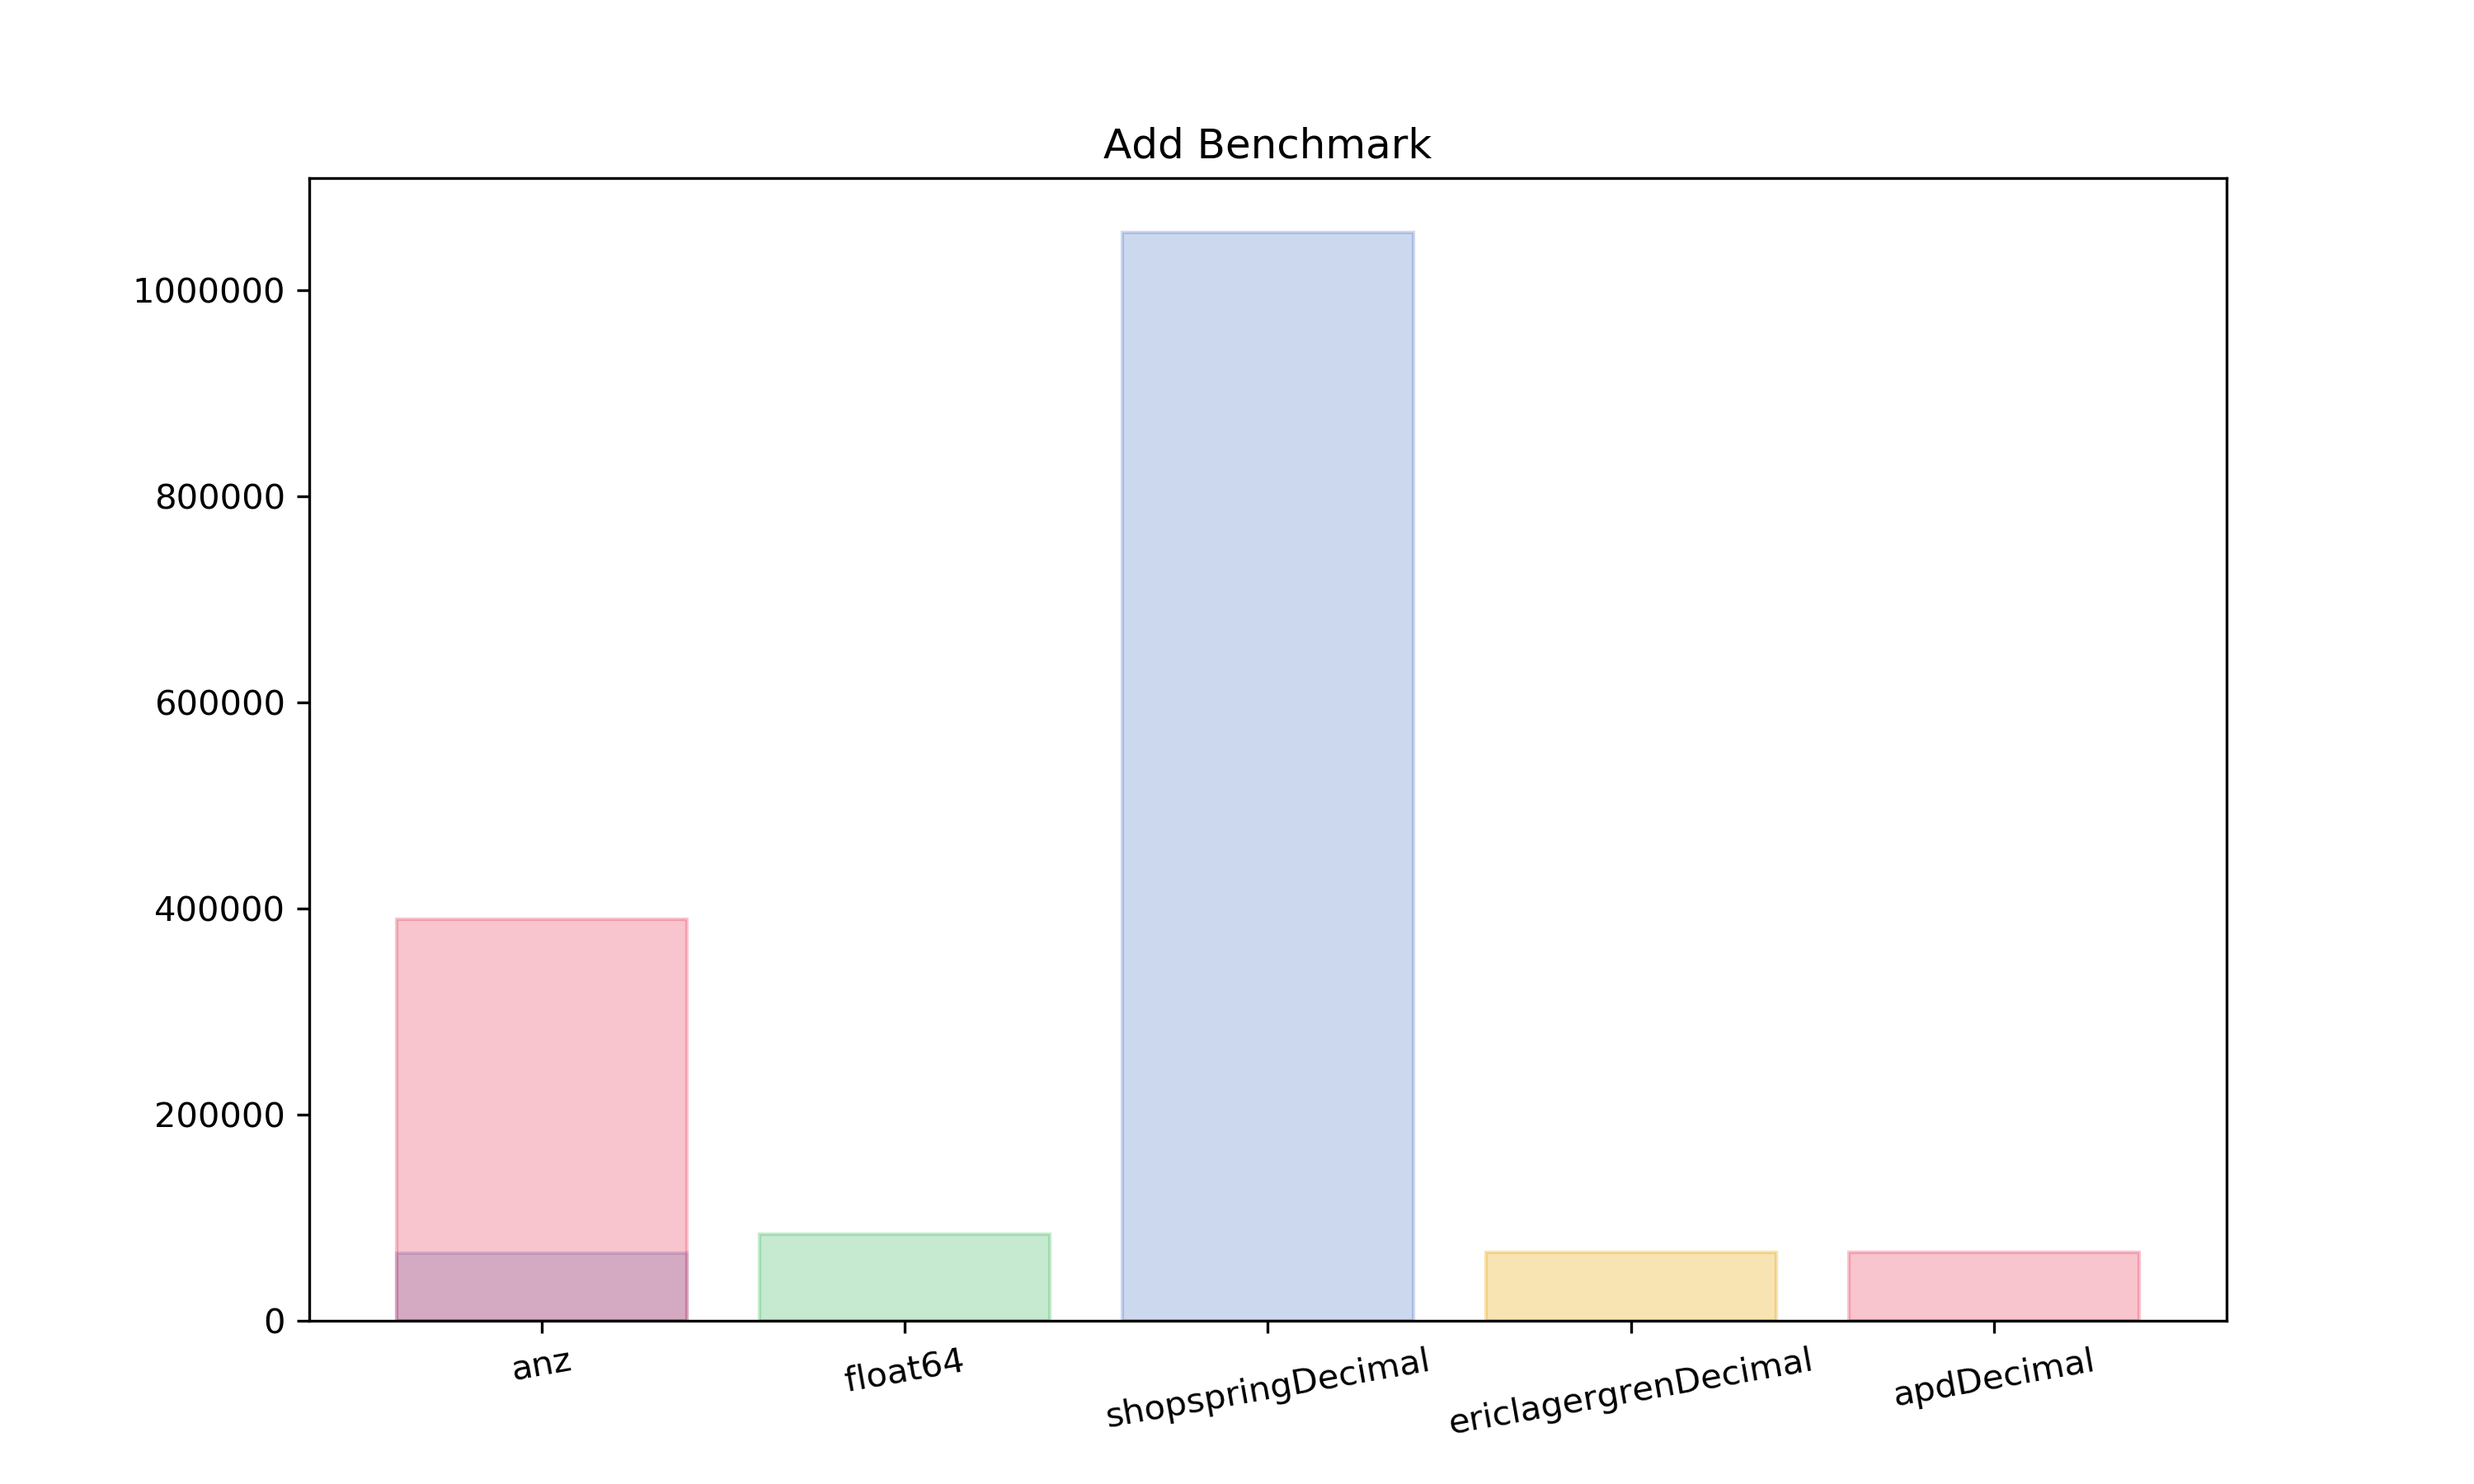
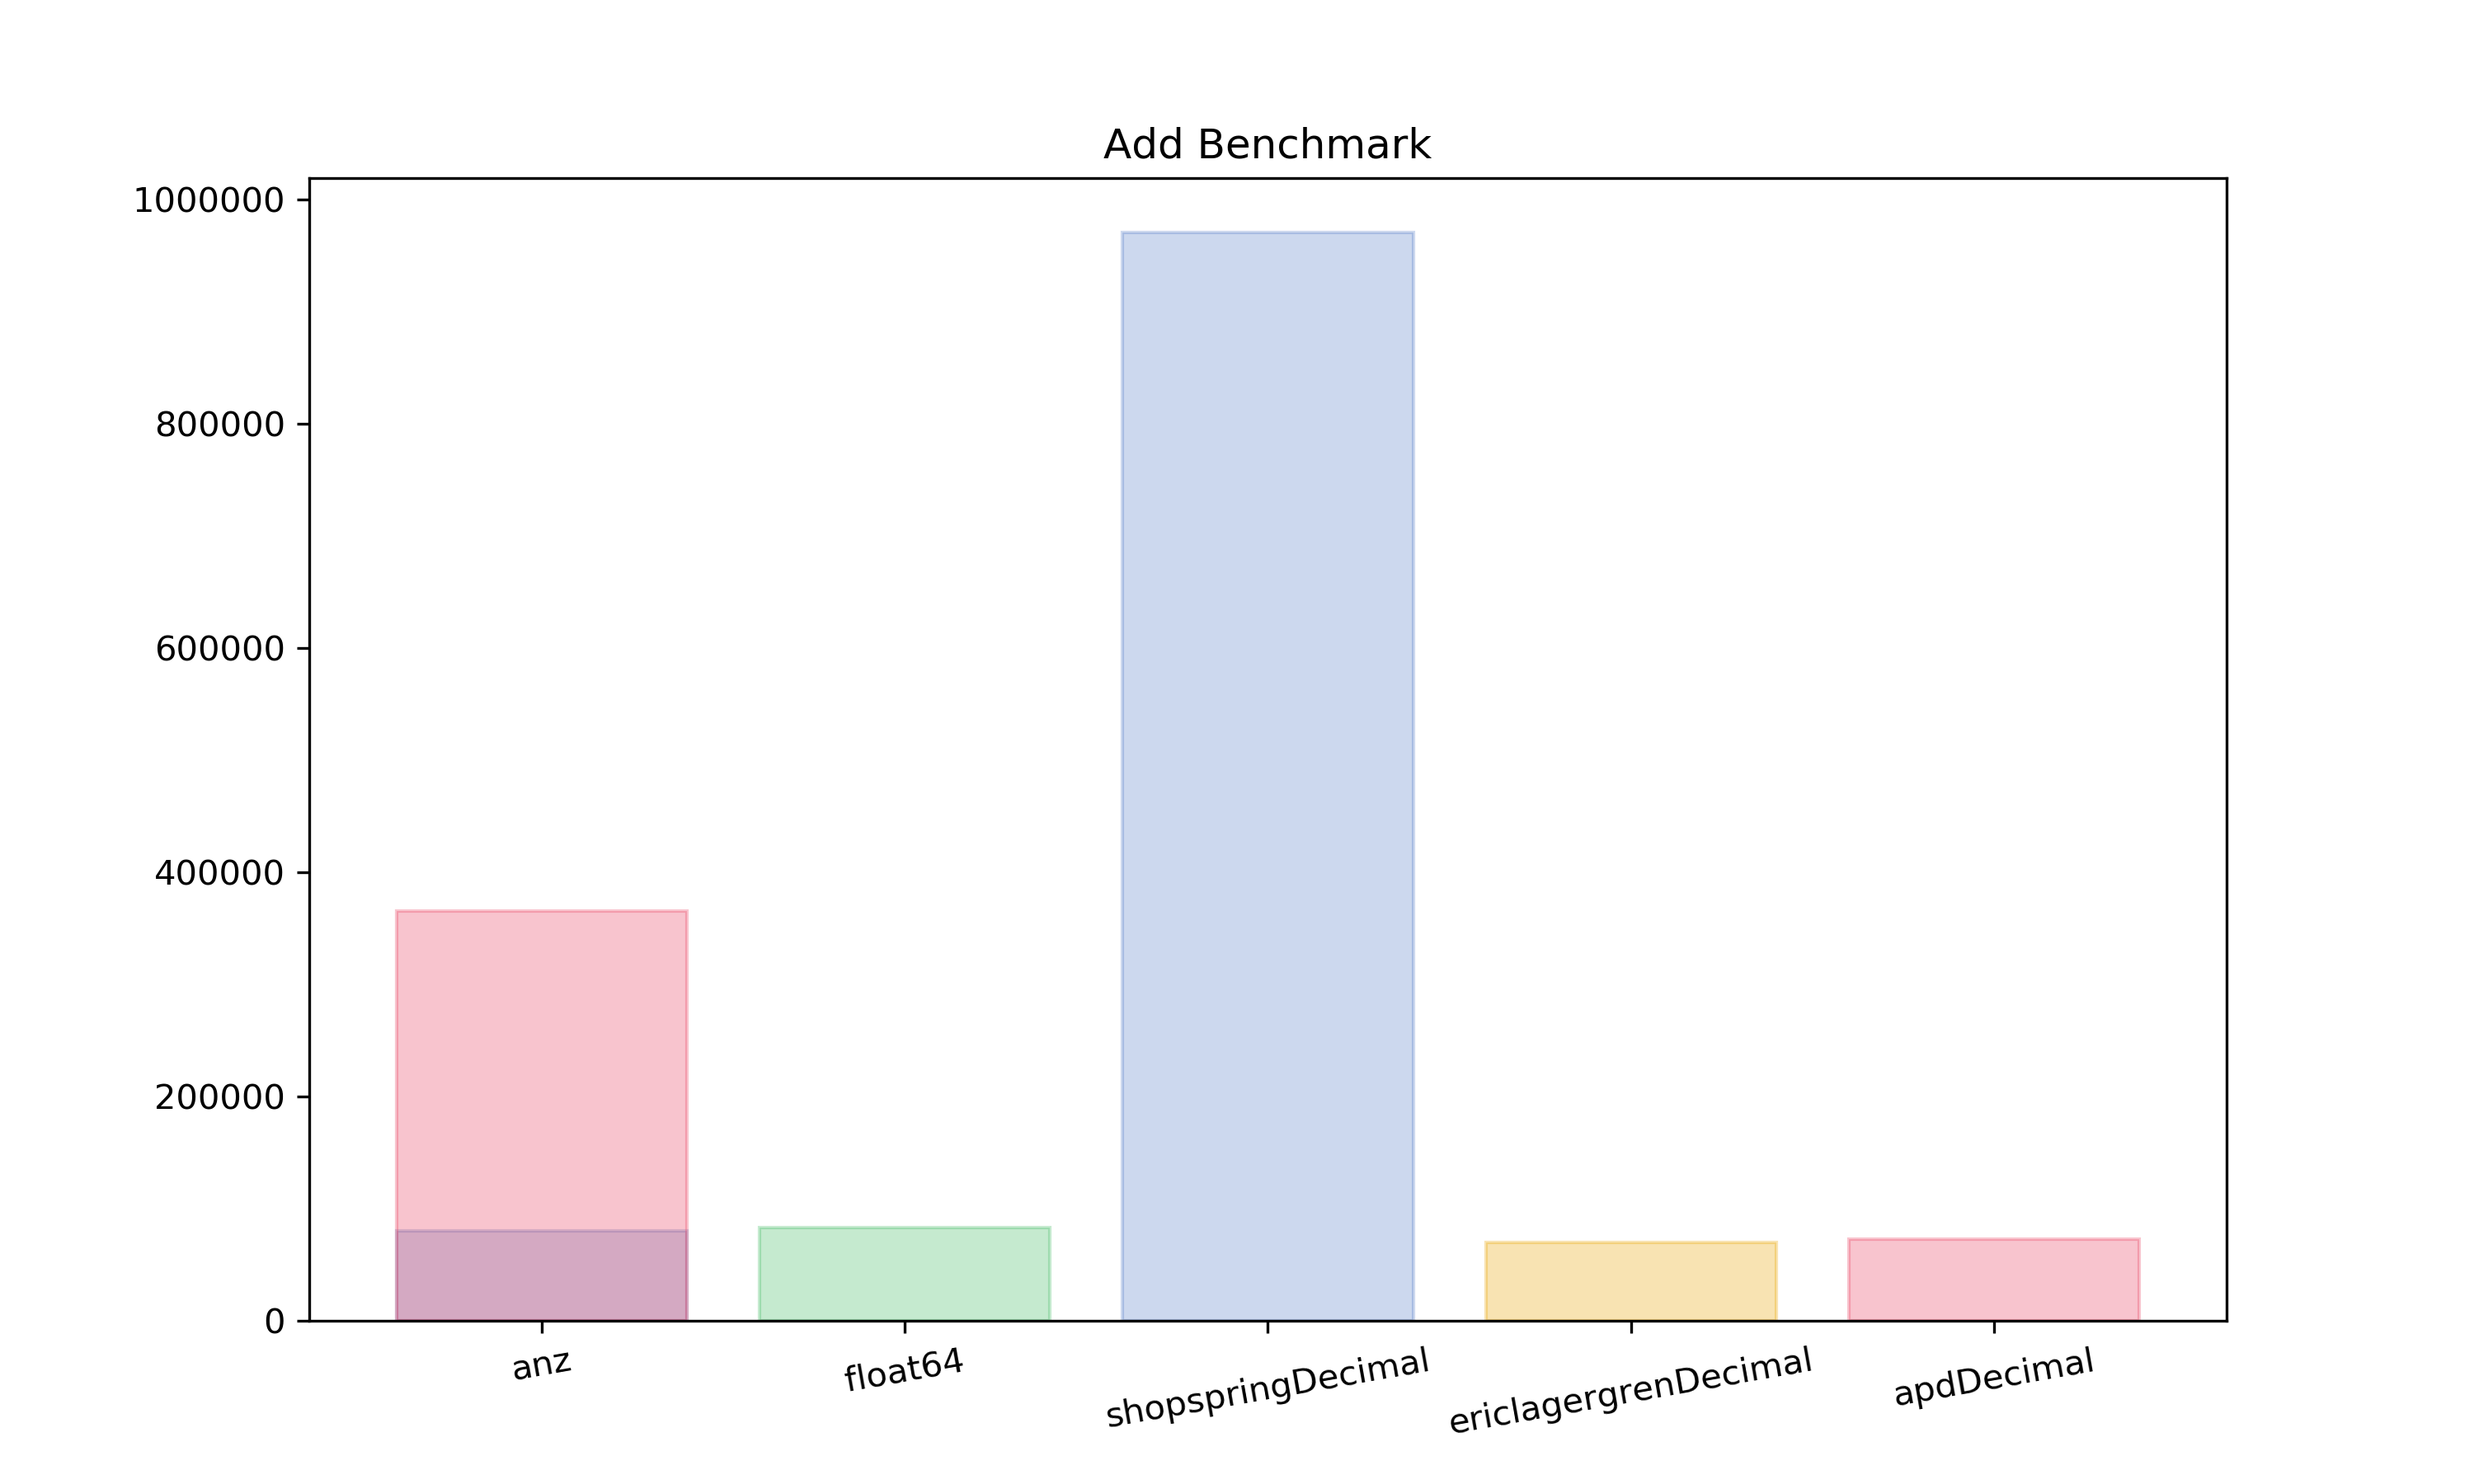
Version it works (tm)

diff --git a/examples/benchmark/graph.py b/examples/benchmark/graph.py
@@ -14,7 +14,7 @@ def convertToCsv(filename):
     next(original)
     c.writerow(["TestName", "LibraryName", "iterations", "time"])
     line = original.read()
-    regex = r"(?:BenchmarkDecimal\/dd)(?P<TestName>\w*)(?:.decTest_)(?P<LibraryName>\w*)(?:-\d\s*)(?P<iterations>\d*)(?:\s*)(?P<time>\d*)"
+    regex = r"(?:BenchmarkDecimal\/dd)(?P<TestName>\w*)(?:.decTest_)(?P<LibraryName>\w*)(?:(#\d*)*-\d\s*)(?P<iterations>\d*)(?:\s*)(?P<time>\d*)"
     matches = re.finditer(regex, line)
     for mat in matches:
         c.writerow([mat.group("TestName"), mat.group("LibraryName"), mat.group("iterations"), mat.group("time")])
@@ -33,9 +33,10 @@ def generate_graph(responsetime_filename):
         element = data.loc[data["TestName"] == operation]
         duplicates = element.duplicated(subset = 'LibraryName', keep = 'first')
         dupes = element[duplicates]
+        print(element)
+
         # [dupes.append(pandas.Series(), ignore_index=True) for i in range(len(element.index)-len(dupes.index))] 
         element = element[~duplicates]
-        print(dupes)
         print(len(element[~duplicates].index))
         plt.figure(figsize=(10,6))
         x = np.arange(len(element.index))
@@ -51,8 +52,9 @@ def generate_graph(responsetime_filename):
             bar_lst2[i].set_color(next(colors))
         plt.xticks(x, element.LibraryName)
         plt.xticks(rotation=10)
+        plt.ylabel('ns/operation')
         plt.title(operation + " Benchmark")
-        plt.savefig(os.path.abspath('../../content/')+f"/img/{operation}_optimised.png", dpi=300, figsize=(50,25))
+        plt.savefig(os.path.abspath('../../content/')+f"/img/{operation}_optimised_1.png", dpi=300, figsize=(50,25))
 
 if __name__ == "__main__":
     # os.system("go test -bench=. > results.txt")

diff --git a/examples/benchmark/benchmarkSuite_test.go b/examples/benchmark/benchmarkSuite_test.go
@@ -242,14 +242,14 @@ func execOp(a, b, c decimal.Decimal64, op string) {
 func execOpDec(a, b, c anz_optimised.DecParts, op string) {
 	switch op {
 	case "add":
-		a.Add(&b)
+		a.Add(b)
 	case "multiply":
-		a.Mul(&b)
+		a.Mul(b)
 	case "abs":
 		a.Abs()
 	case "divide":
 		// return anz_optimised.DecZero
-		a.Quo(&b)
+		a.Quo(b)
 	default:
 	}
 	// return anz_optimised.DecZero

diff --git a/examples/ericDecimal.go b/examples/ericDecimal.go
@@ -1,0 +1,18 @@
+package main
+
+import "math/big"
+
+// START OMIT
+type Big struct {
+	// Context is used to give info like rounding modes and all
+	Context Context
+
+	// unscaled is only used if the decimal is too large to fit in compact.
+	unscaled big.Int
+	compact  uint64
+	exp      int
+
+	// ... more utility fields ...
+	// END OMIT
+
+}

diff --git a/examples/ansFunction.go b/examples/ansFunction.go
@@ -9,4 +9,4 @@ func (d Decimal64) Add(e Decimal64) Decimal64 {
 	return newFromParts(ans)
 }
 
-// End OMIT
+// END OMIT
